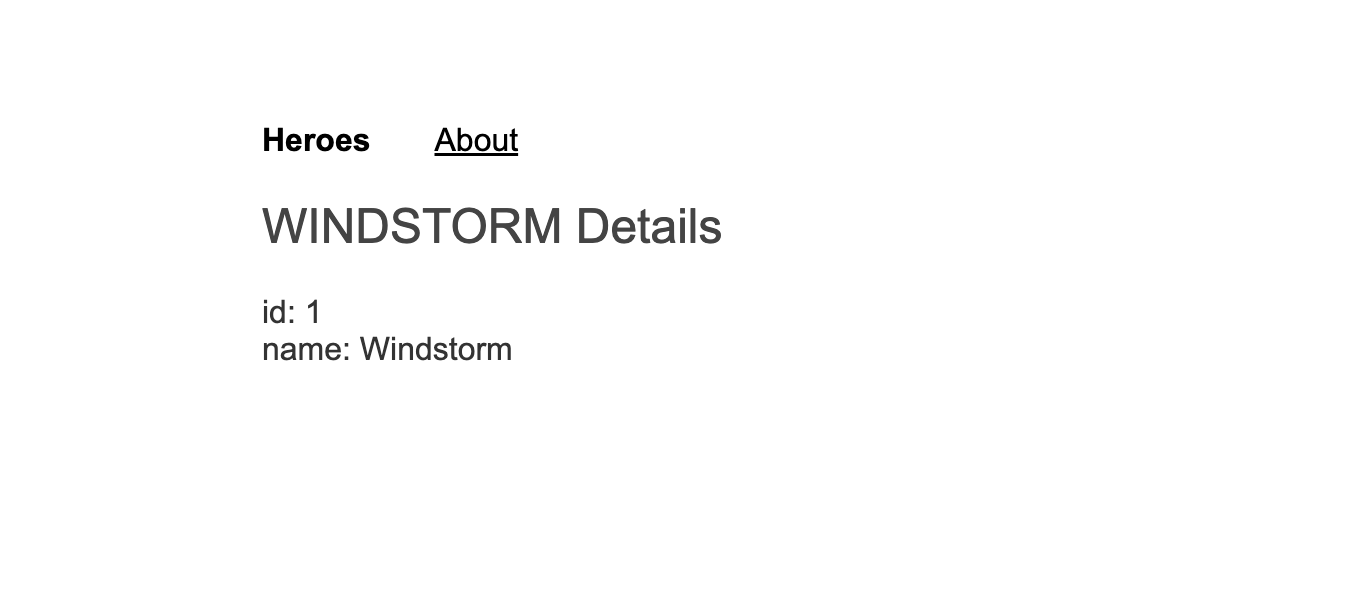
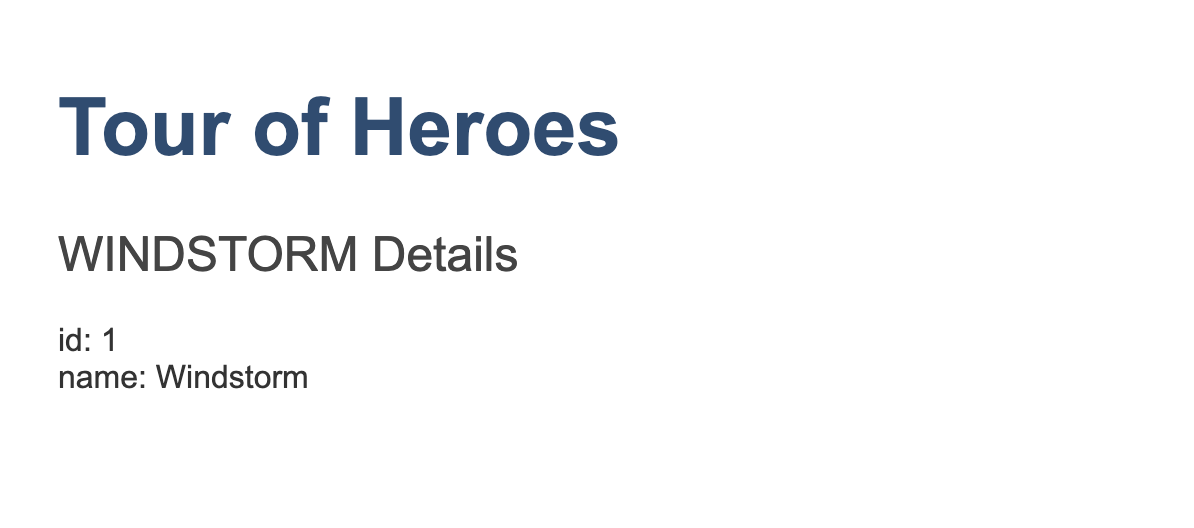
fix: re-updated heroes component book about riot toh

diff --git a/books/riotjs-tour-of-heroes/hero_component.md b/books/riotjs-tour-of-heroes/hero_component.md
@@ -4,97 +4,131 @@ title: "Chapter2 ヒーローコンポーネント"
 
 今回はより具体的にヒーローコンポーネントを作成していきます．
 
-# heroes コンポーネントを作成する
+# 全体構成を Angular チュートリアルに寄せる
 
-では早速 `heroes` コンポーネントを作っていきますが，厳密には `heroes` ページ（コンポーネント）を作る形になります．
+では早速 `heroes` コンポーネントを作っていきたいのですが，今の riot のアプリケーションの全体構成が，Angular のチュートリアルと差分があるため，修正していきます．
 
-## ディレクトリ・ファイルのリネームと修正
+## ベースコンポーネントの作成
 
-まずはいくつかのディレクトリやファイルのリネームを行います．`src/pages/home.riot` ファイルの名前を `heroes.riot` に変更し，さらに，`app.riot`，`heroes/riot`，`src/pages.js` ファイルを以下のように変更します．
+まずは，アプリケーションのコアとなるベースコンポーネントを作成していきます．`app.riot` というファイルを作成し，以下を追記してください．
 
-**app.riot**
-```diff
-   Router,
-   Route,
-   NotFound,
--  Home: lazy(Loader, () => import(
--    /* webpackPrefetch: true, webpackChunkName: 'pages/home' */
--    './pages/home.riot'
-+  Heroes: lazy(Loader, () => import(
-+    /* webpackPrefetch: true, webpackChunkName: 'pages/heroes' */
-+    './pages/heroes.riot'
-   )),
-   About: lazy(
+```html
+<app>
+  <div class="container">
+    <h1>{ props.title }</h1>
+  </div>
+</app>
 ```
 
-**heroes.riot**
+続いて，`index.html` を以下のように修正します．
+
 ```diff
--<home>
-+<heroes>
-   <h1>I am the home page</h1>
-   <p>Welcome</p>
--</home>
-+</heroes>
+  <body>
+-   <div class="container">
++   <div id="root"></div>
++   <aside is="sidebar" data-riot-component class="column"></aside>
+-     <div class="row">
+-       <main class="column column-60">
+-         <h1>Hello that's my first Riot.js App</h1>
+-
+-         <div
+-           is="my-component"
+-           data-riot-component
+-           message="Hello There"
+-         ></div>
+-       </main>
+-     </div>
+-   </div>
+  </body>
 ```
 
-**pages.js**
-```diff
- export default [
-   {
-     path: "/",
--    label: "Home",
--    componentName: "home",
-+    label: "Heroes",
-+    componentName: "heroes",
-   },
-```
+さらに，`index.js` ファイルを以下のように変更します．
 
-一旦 `heroes` コンポーネントの作成は完了です．
+```diff
+ import "./style.css";
+ import "@riotjs/hot-reload";
+- import { mount } from "riot";
++ import { component } from "riot";
++ import App from "./app.riot";
+ import registerGlobalComponents from "./register-global-components.js";
+
+ // register
+ registerGlobalComponents();
+
+- // mount all the global components found in this page
+- mount("[data-riot-component]");
++ // mount the root tag
++ component(App)(document.getElementById("root"), {
++   title: "Tour of Heroes"
++ });
+```
 
 ## 不要なコンポーネントの削除
 
-次に，ボイラープレートで追加されている不要なコンポーネントがあるため，削除していきます．今回は
+次に，ボイラープレートで追加された不要なコンポーネントがあるため，削除していきます．今回は
 
 * `src/components/global/my-component/` ディレクトリ
-*  `src/components/global/sidebar/` ディレクトリ
-*  `src/components/includes/user/` ディレクトリ
+* `src/components/global/sidebar/` ディレクトリ
+* `src/components/includes/user/` ディレクトリ
 
-ですね．こちらを丸っと削除しちゃいましょう💁
+以上3つを丸っと削除しちゃいましょう💁
 
-さらに，削除したファイルを読み込んでいる箇所がいくつかありますので，`app.riot` ファイルを開き，以下の記述を削除してください．
-
-```html
-<!-- notice how <sidebar> is registered as global component -->
-<div class="column column-40">
- <sidebar/>
-</div>
-```
-
-以上でお掃除完了です．
-
-## `heroes` コンポーネントの実装
-
-では，`heroes` コンポーネントの実装に入ります．まずはヒーローの名前を表示するところまで実装してみましょう．`heroes.riot` ファイルを以下のように変更してください．
+さらに，削除したファイルを読み込んでいる箇所がいくつかありますので，`index.html` ファイルを開き，以下の記述を削除してください．
 
 ```diff
-  <heroes>
--   <h1>I am the home page</h1>
--   <p>Welcome</p>
-+   <h2>{ hero }</h2>
-+
-+   <script>
-+     export default {
-+       hero: 'Windstorm'
-+     }
-+   </script>
-  </heroes>
+  <div class="container">
+    <div id="root"></div>
+-   <aside is="sidebar" data-riot-component class="column"></aside>
+  </div>
+```
+
+ 以上でお掃除も完了し，準備は完了です！
+
+# heroes コンポーネントを作成する
+
+それでは改めて `heroes` コンポーネントを作っていきます．
+
+## `heroes` コンポーネントの作成
+
+以下３つのファイルとフォルダを作成してください．
+
+* `src/components/global/heroes/` ディレクトリ
+* `src/components/global/heroes/heroes.riot` ファイル
+* `src/components/global/heroes/heroes.spec.js` ファイル
+
+`heroes.spec.js` についてはこの章では触れず，後ほど書いていきます（たぶん）．
+
+では，`heroes` コンポーネントの実装に入ります．まずはヒーローの名前を表示するところまで実装してみましょう．`heroes.riot` ファイルに以下を記述してください．
+
+```html
+<heroes>
+  <h2>{ hero }</h2>
+
+  <script>
+    export default {
+      hero: 'Windstorm'
+    }
+  </script>
+</heroes>
+```
+
+書けましたら，`heroes` コンポーネントを `app.riot` にてインポートし，レンダリングさせましょう．
+
+```diff
+    <h1>{ props.title }</h1>
++   <heroes />
+  </div>
+
++ <script>
++   import Heroes from "@/components/global/heroes/heroes.riot";
++ </script>
 ```
 
 ここまでできますと，画面に `Windstorm` という名前が表示されているかと思います．
 
-# ヒーローオブジェクトを表示する
+## ヒーローオブジェクトを表示する
 
-ベースができましたので続けていきますが，今回のヒーローのデータには，名前の他にそれぞれのヒーローに一意な `ID` も持たせます．したがって，`heroes.riot` を以下のように変更してみましょう．
+今回のヒーローのデータには，名前の他にそれぞれのヒーローに一意な `ID` も持たせます．したがって，`heroes.riot` を以下のように変更してみましょう．
 
 ```diff
  <heroes>
@@ -175,61 +209,5 @@ title: "Chapter2 ヒーローコンポーネント"
 ここまでできましたら，`name` のテキストボックスの値を変えてみてください．リアルタイムにタイトル下の名前も一緒に変更されると思います！
 
 ![ヒーローネームの変更動画](/images/books/riotjs_toh/02_change_hero_name.gif)
-
-## タイトルとスタイルを調整
-
-最後の最後に，今までデフォルトのままだったタイトルを（今更）今回のチュートリアルのものに変更しつつ，`ress` で初期化したスタイリングを調整していきます．
-
-まずはタイトルを変更しますので，`index.html` を以下のように変更してください．
-
-```diff
-       <div class="row">
-         <main class="column column-60">
--          <h1>Hello that's my first Riot.js App</h1>
-+          <h1>Tour of Heroes with Riot</h1>
-           <div is="heroes" data-riot-component message="Hello There"></div>
-         </main>
-       </div>
-```
-
-次にスタイリングを変更しますので，`style.css` を以下のように変更してください．
-
-```diff
-   color: #369;
-   font-family: Arial, Helvetica, sans-serif;
-   font-size: 250%;
-+  margin: 1.6rem auto;
- }
- h2,
- h3 {
-   color: #444;
-   font-family: Arial, Helvetica, sans-serif;
-   font-weight: lighter;
-+  margin: 1.2rem auto;
- }
- body {
-   margin: 2em;
-
-...（中略）
-    color: #333;
-    font-family: Cambria, Georgia;
-  }
-+ input[type="text"] {
-+   border: 1px solid gray;
-+   border-radius: 2px;
-+   padding: 1px 4px;
-+ }
-
-  /* everywhere else */
-  * {
-    font-family: Arial, Helvetica, sans-serif;
-```
-
-ここまで変更できましたら，以下の画像のように変更されていると思います．行ったことは
-
-- タイトルと名前の上下の margin をセット
-- input タグの border を調整
-
-![](https://storage.googleapis.com/zenn-user-upload/xkzwb2vj5b59fobs2a6si9cbpzva)
 
 以上で Chapter2「ヒーローエディタ」は完了です！
